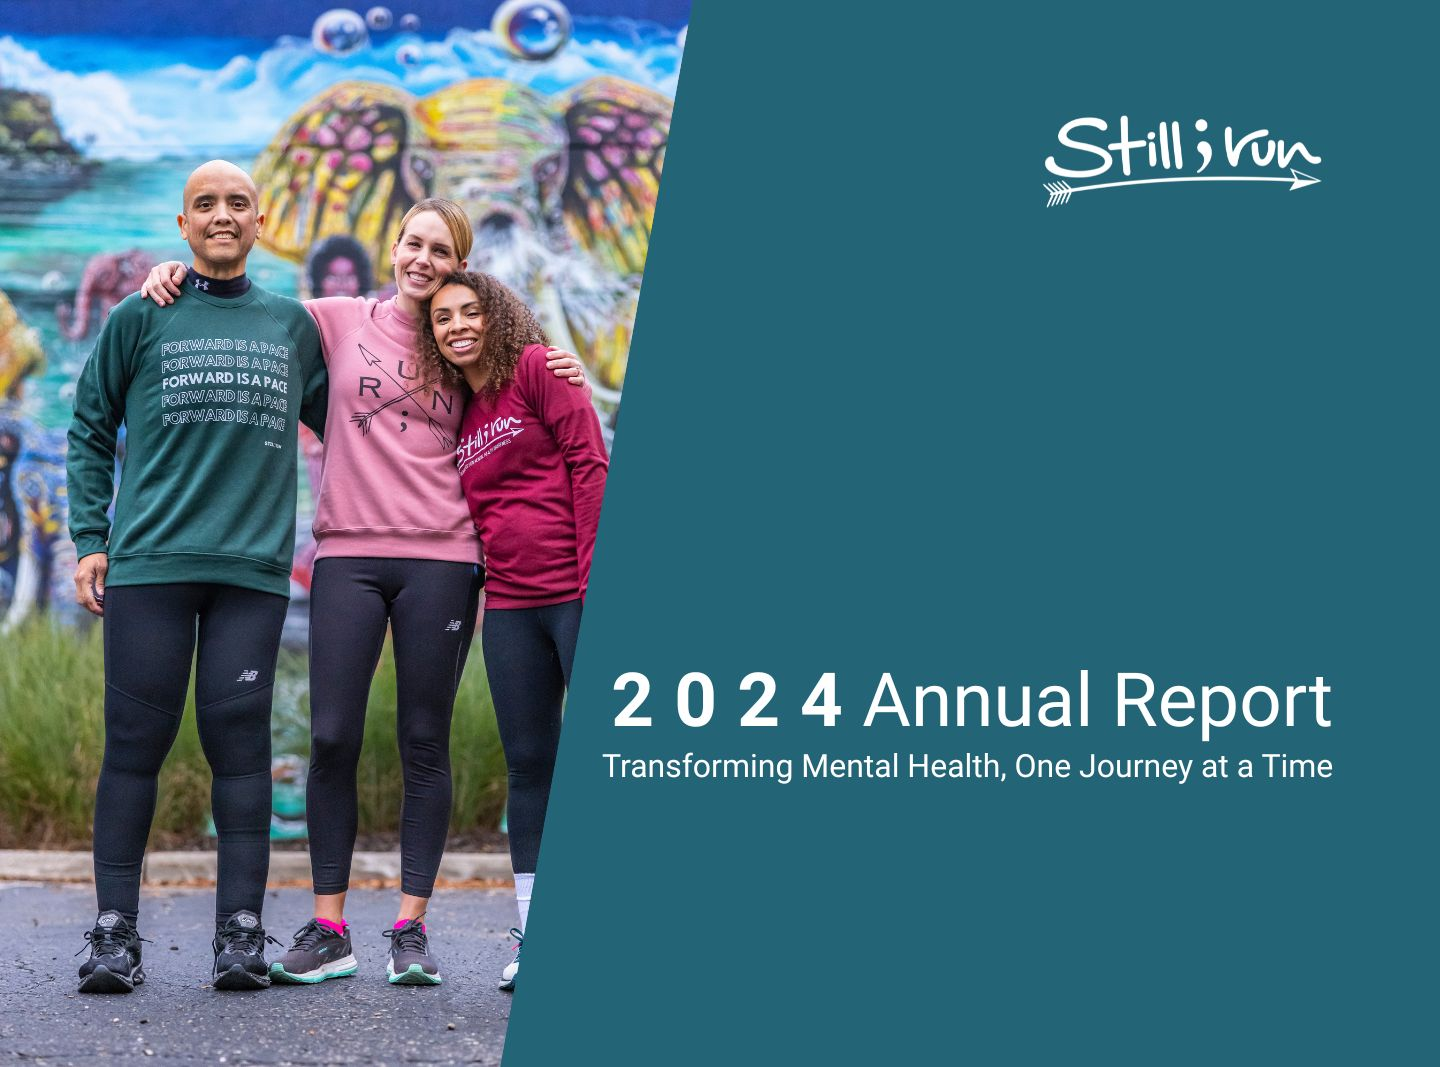
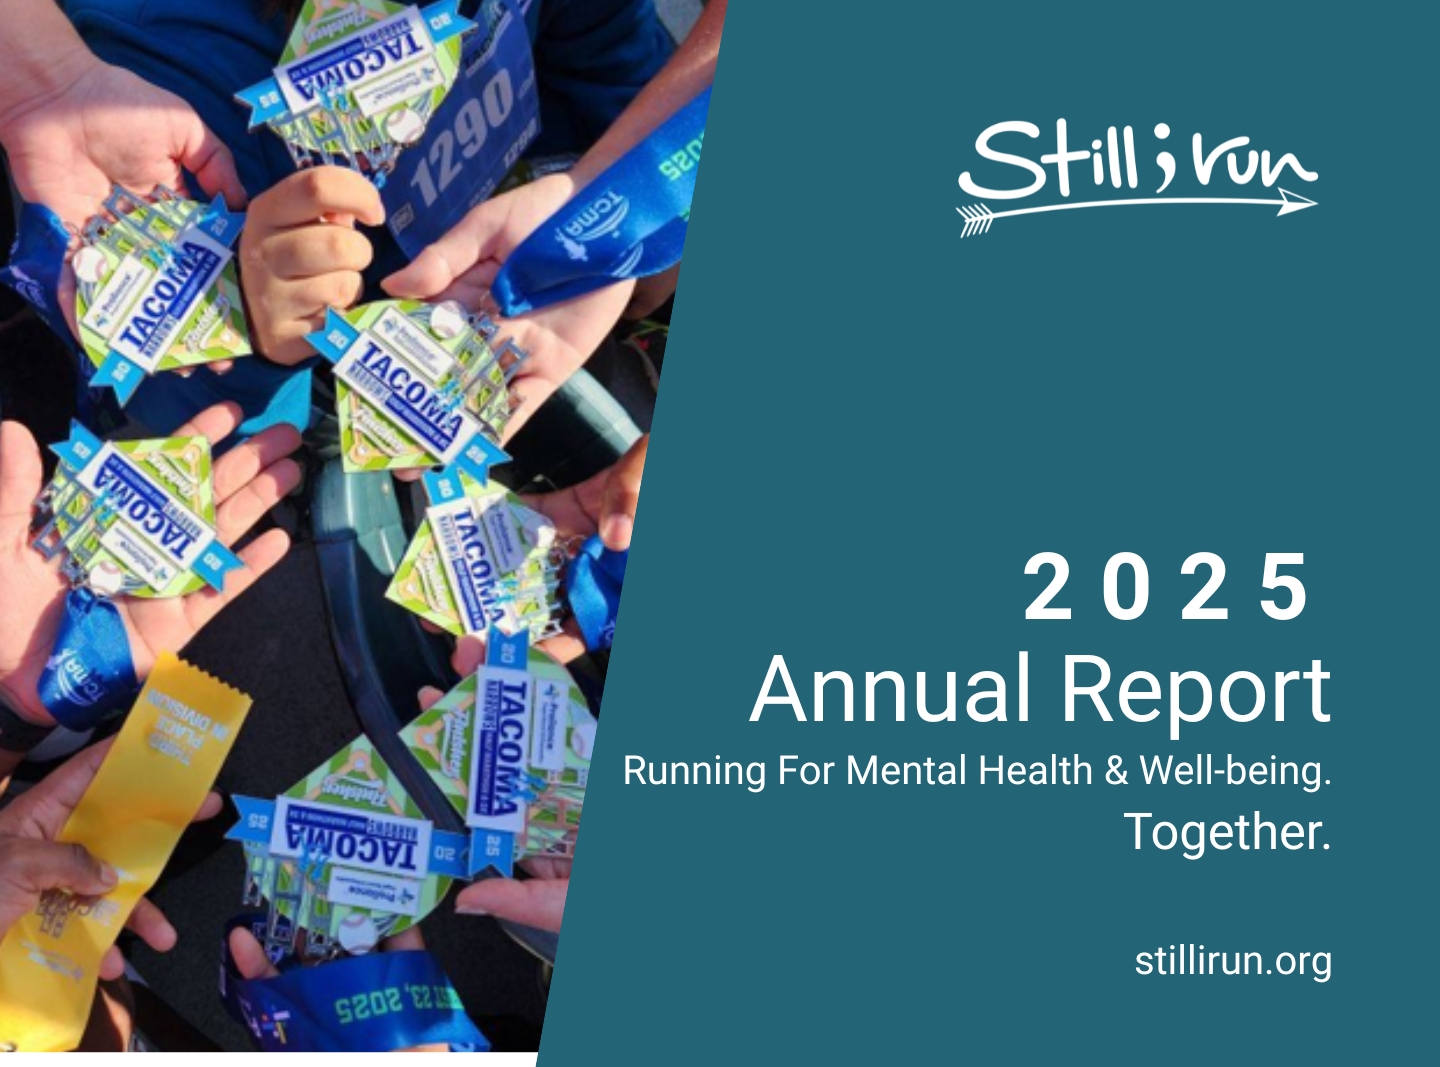
Update SEO for 2025 and change share image

diff --git a/2025/index.html b/2025/index.html
@@ -43,7 +43,7 @@
   <meta property="og:type" content="article">
   <meta property="og:title" content="Still I Run — 2025 Annual Report">
   <meta property="og:description"
-    content="Still I Run is a nationwide non-profit dedicated to promoting the benefits of running for mental health. Read our 2024 annual report to see what we accomplished this year.">
+    content="Still I Run is a nationwide non-profit dedicated to promoting the benefits of running for mental health. Read our 2025 annual report to see what we accomplished this year.">
   <meta property="og:updated_time" content="2025-02-24T11:30:50">
   <meta property="og:image" content="static/images/share-image.jpg">
 
@@ -53,7 +53,7 @@
   <meta name="twitter:creator" content="@stillirun">
   <meta name="twitter:title" content="Still I Run — 2025 Annual Report">
   <meta name="twitter:description"
-    content="Still I Run is a nationwide non-profit dedicated to promoting the benefits of running for mental health. Read our 2024 annual report to see what we accomplished this year.">
+    content="Still I Run is a nationwide non-profit dedicated to promoting the benefits of running for mental health. Read our 2025 annual report to see what we accomplished this year.">
   <meta name="twitter:image" content="static/images/share-image.jpg">
 
   <!-- FAVICONS -->
